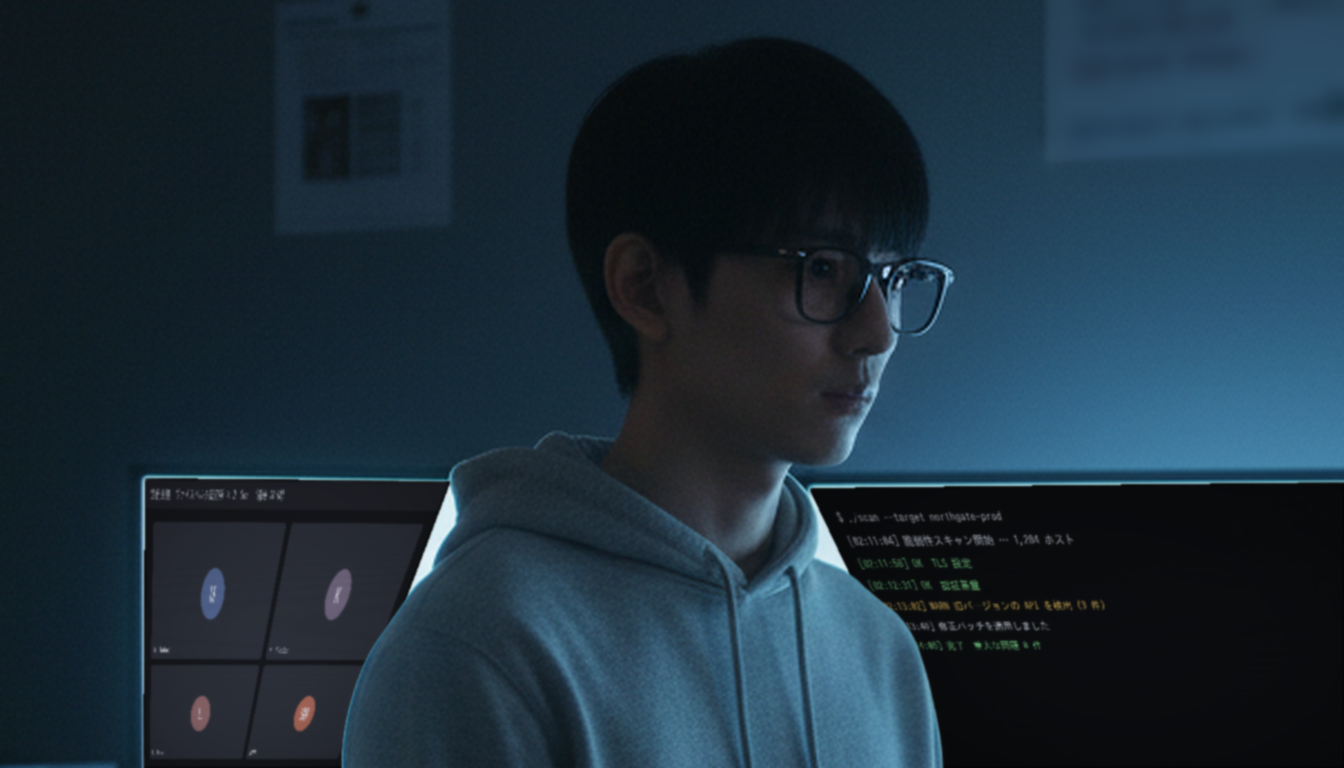
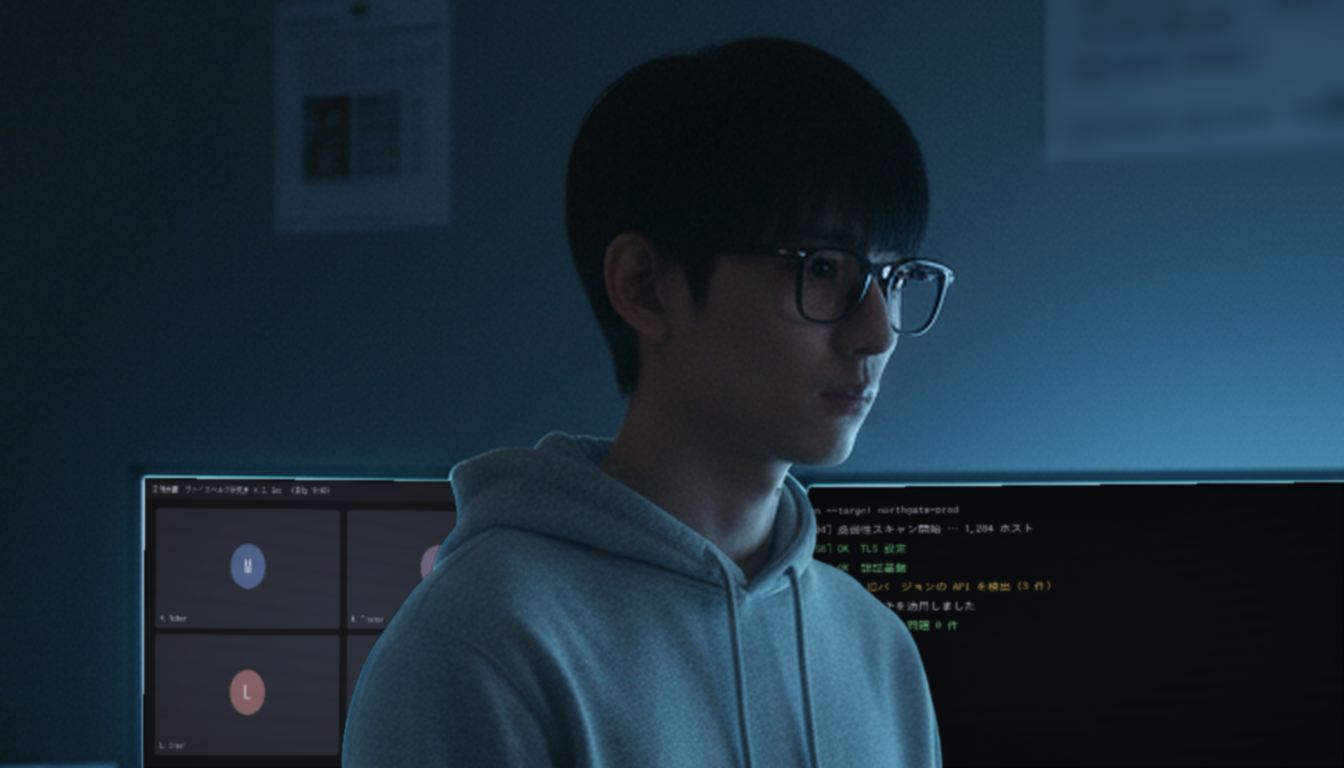
S05i 화면 사각형 확장·흰 테 제거(tol 항목)
Claude-Session: https://claude.ai/code/session_01N7M5aRrGWr6VeAMa9sT3DQ

Changed region(s): [[0.0938, 0.625, 0.3438, 0.9688], [0.5938, 0.625, 0.8125, 0.8438]]

diff --git a/scripts/hikikomori_screens.py b/scripts/hikikomori_screens.py
@@ -323,7 +323,7 @@ def apply_plan(img, entries, blur=1.0):
             poly = cv2.dilate(poly, np.ones((2 * e["grow"] + 1,) * 2, np.uint8))
         if e["mode"] == "key":
             inside = base[poly > 0]; med = np.median(inside, axis=0)
-            dist = np.linalg.norm(base - med, axis=2); key = np.clip(1 - (dist - 40) / 45, 0, 1) * poly
+            dist = np.linalg.norm(base - med, axis=2); key = np.clip(1 - (dist - e.get("tol", 40)) / 45, 0, 1) * poly  # tol↑ = 인물 가장자리에 남는 흰 테까지 교체
             key = cv2.dilate(key, np.ones((3, 3), np.uint8))  # 화면 가장자리 흰 테 제거
             gain = np.clip(base.mean(2) / max(med.mean(), 1), 0.6, 1.05)[..., None]
             lvl = 1.0
